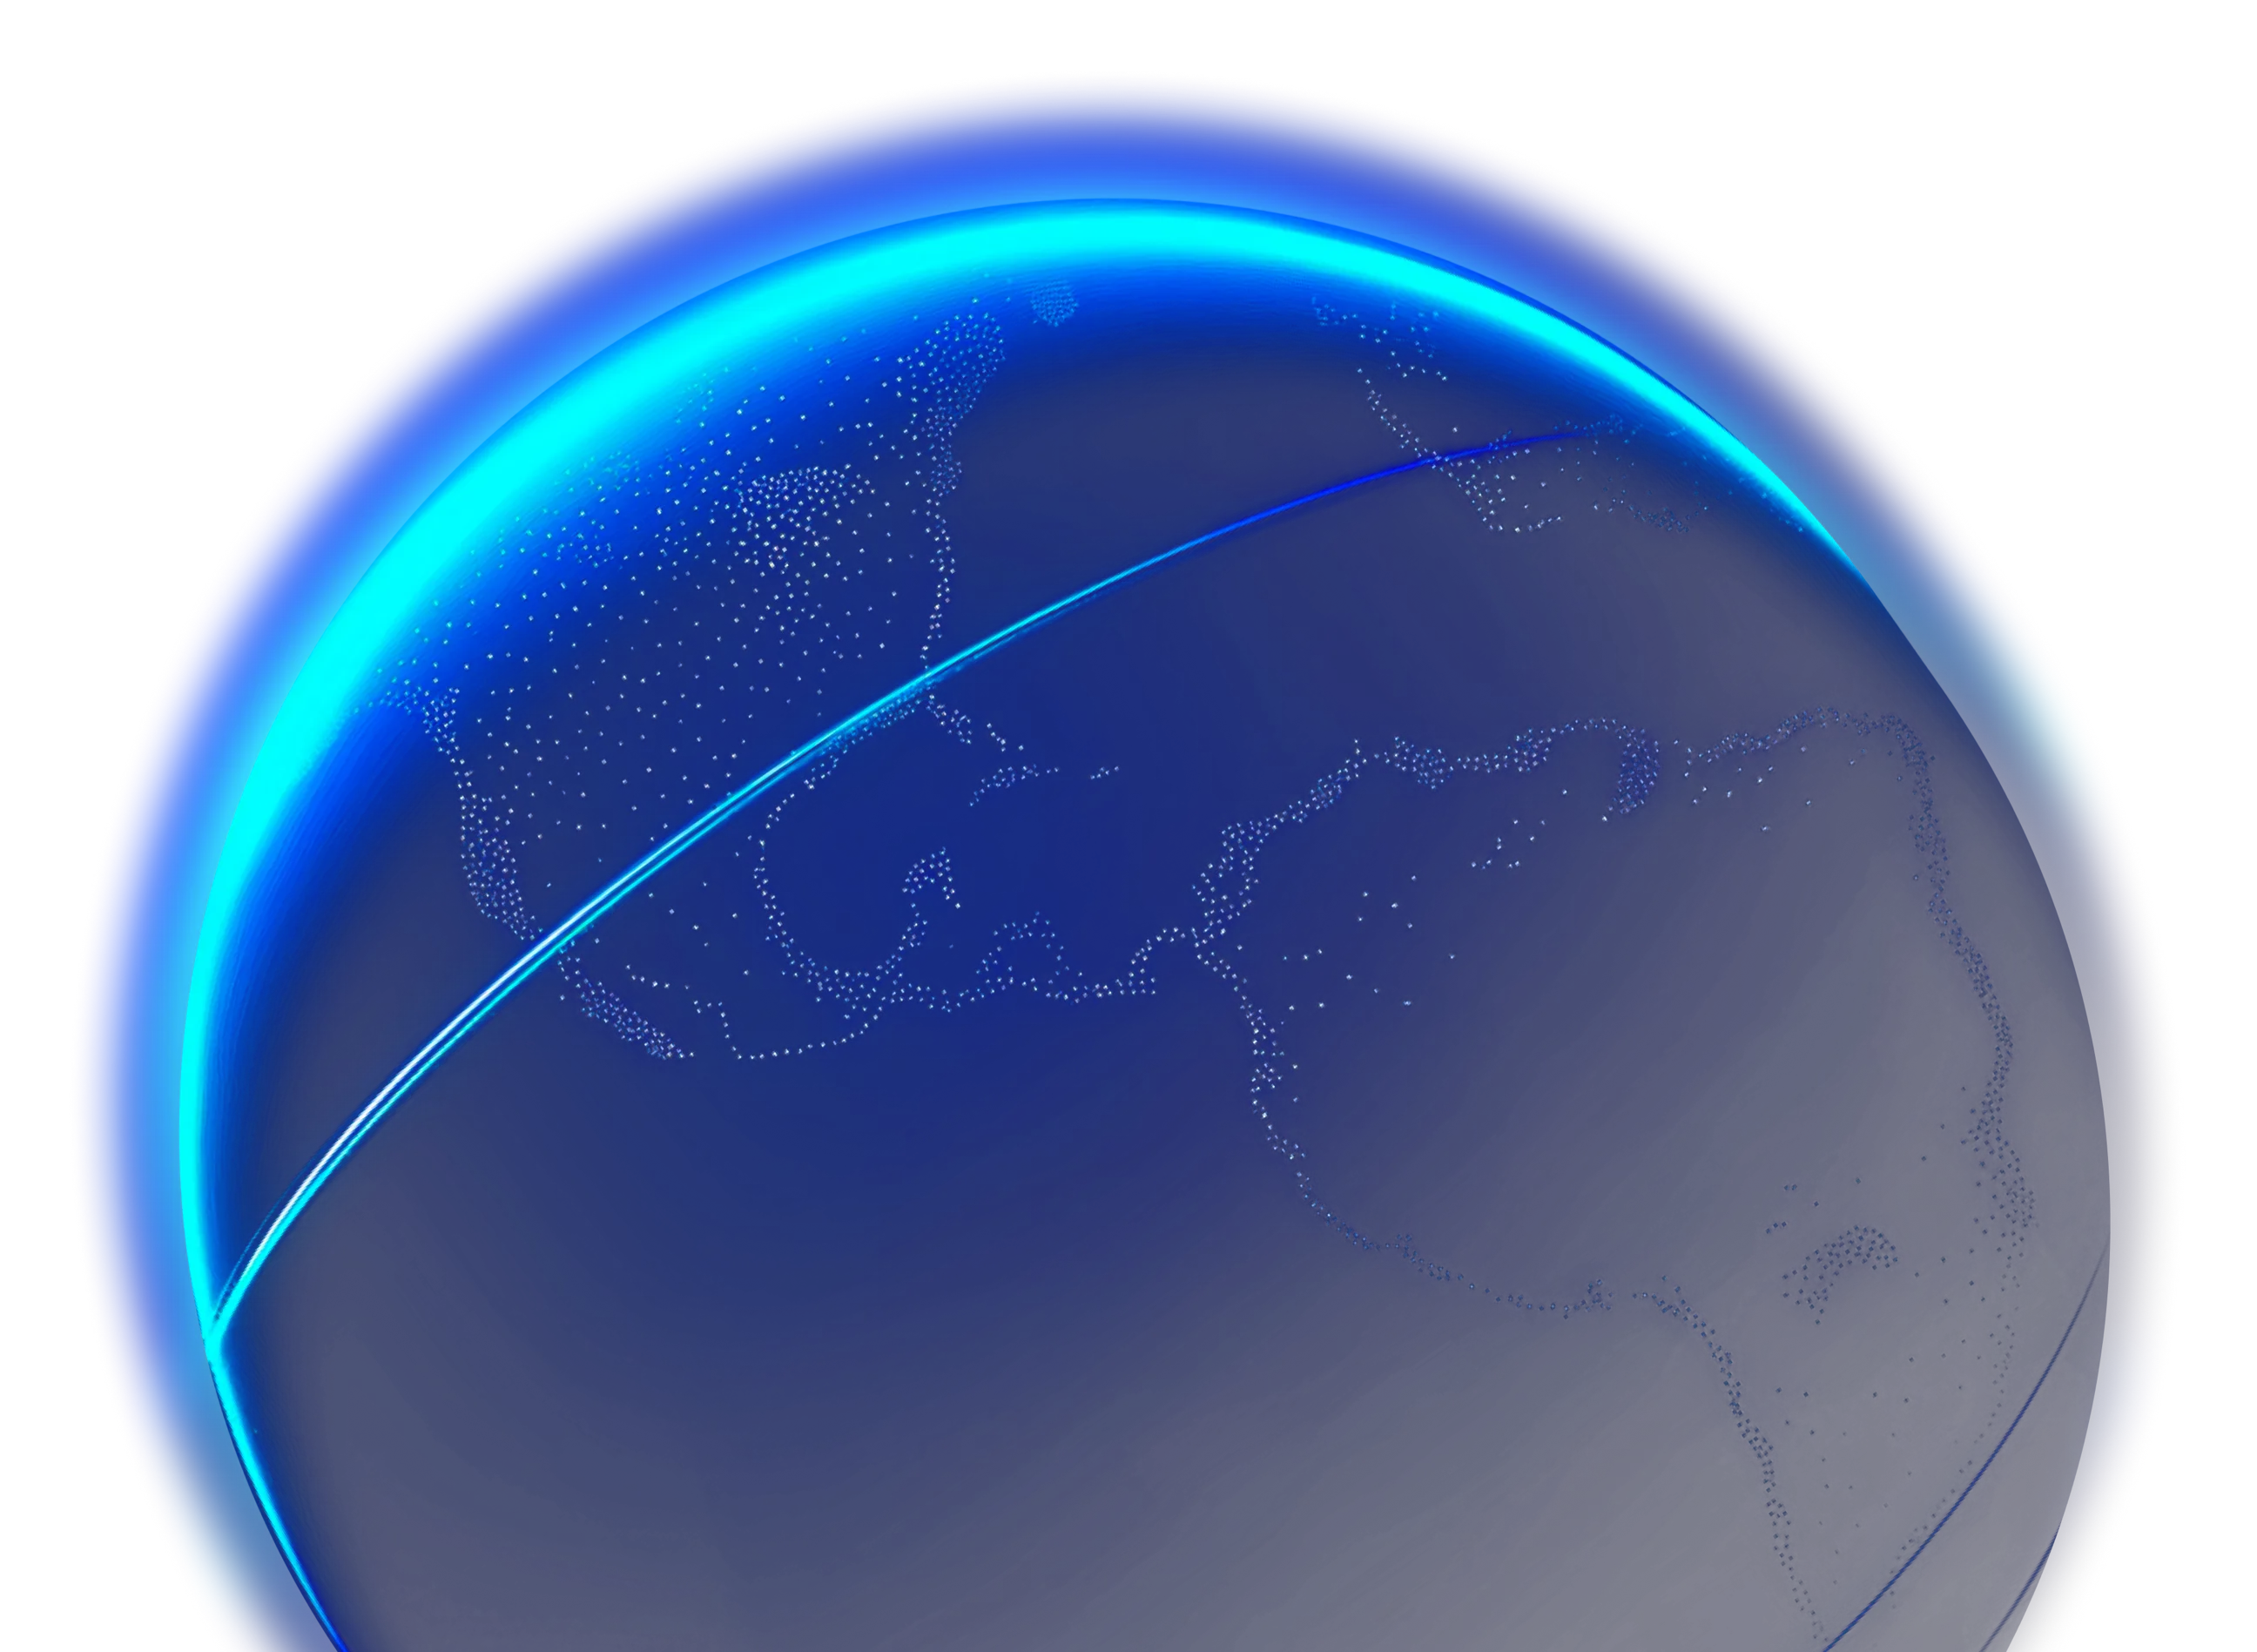
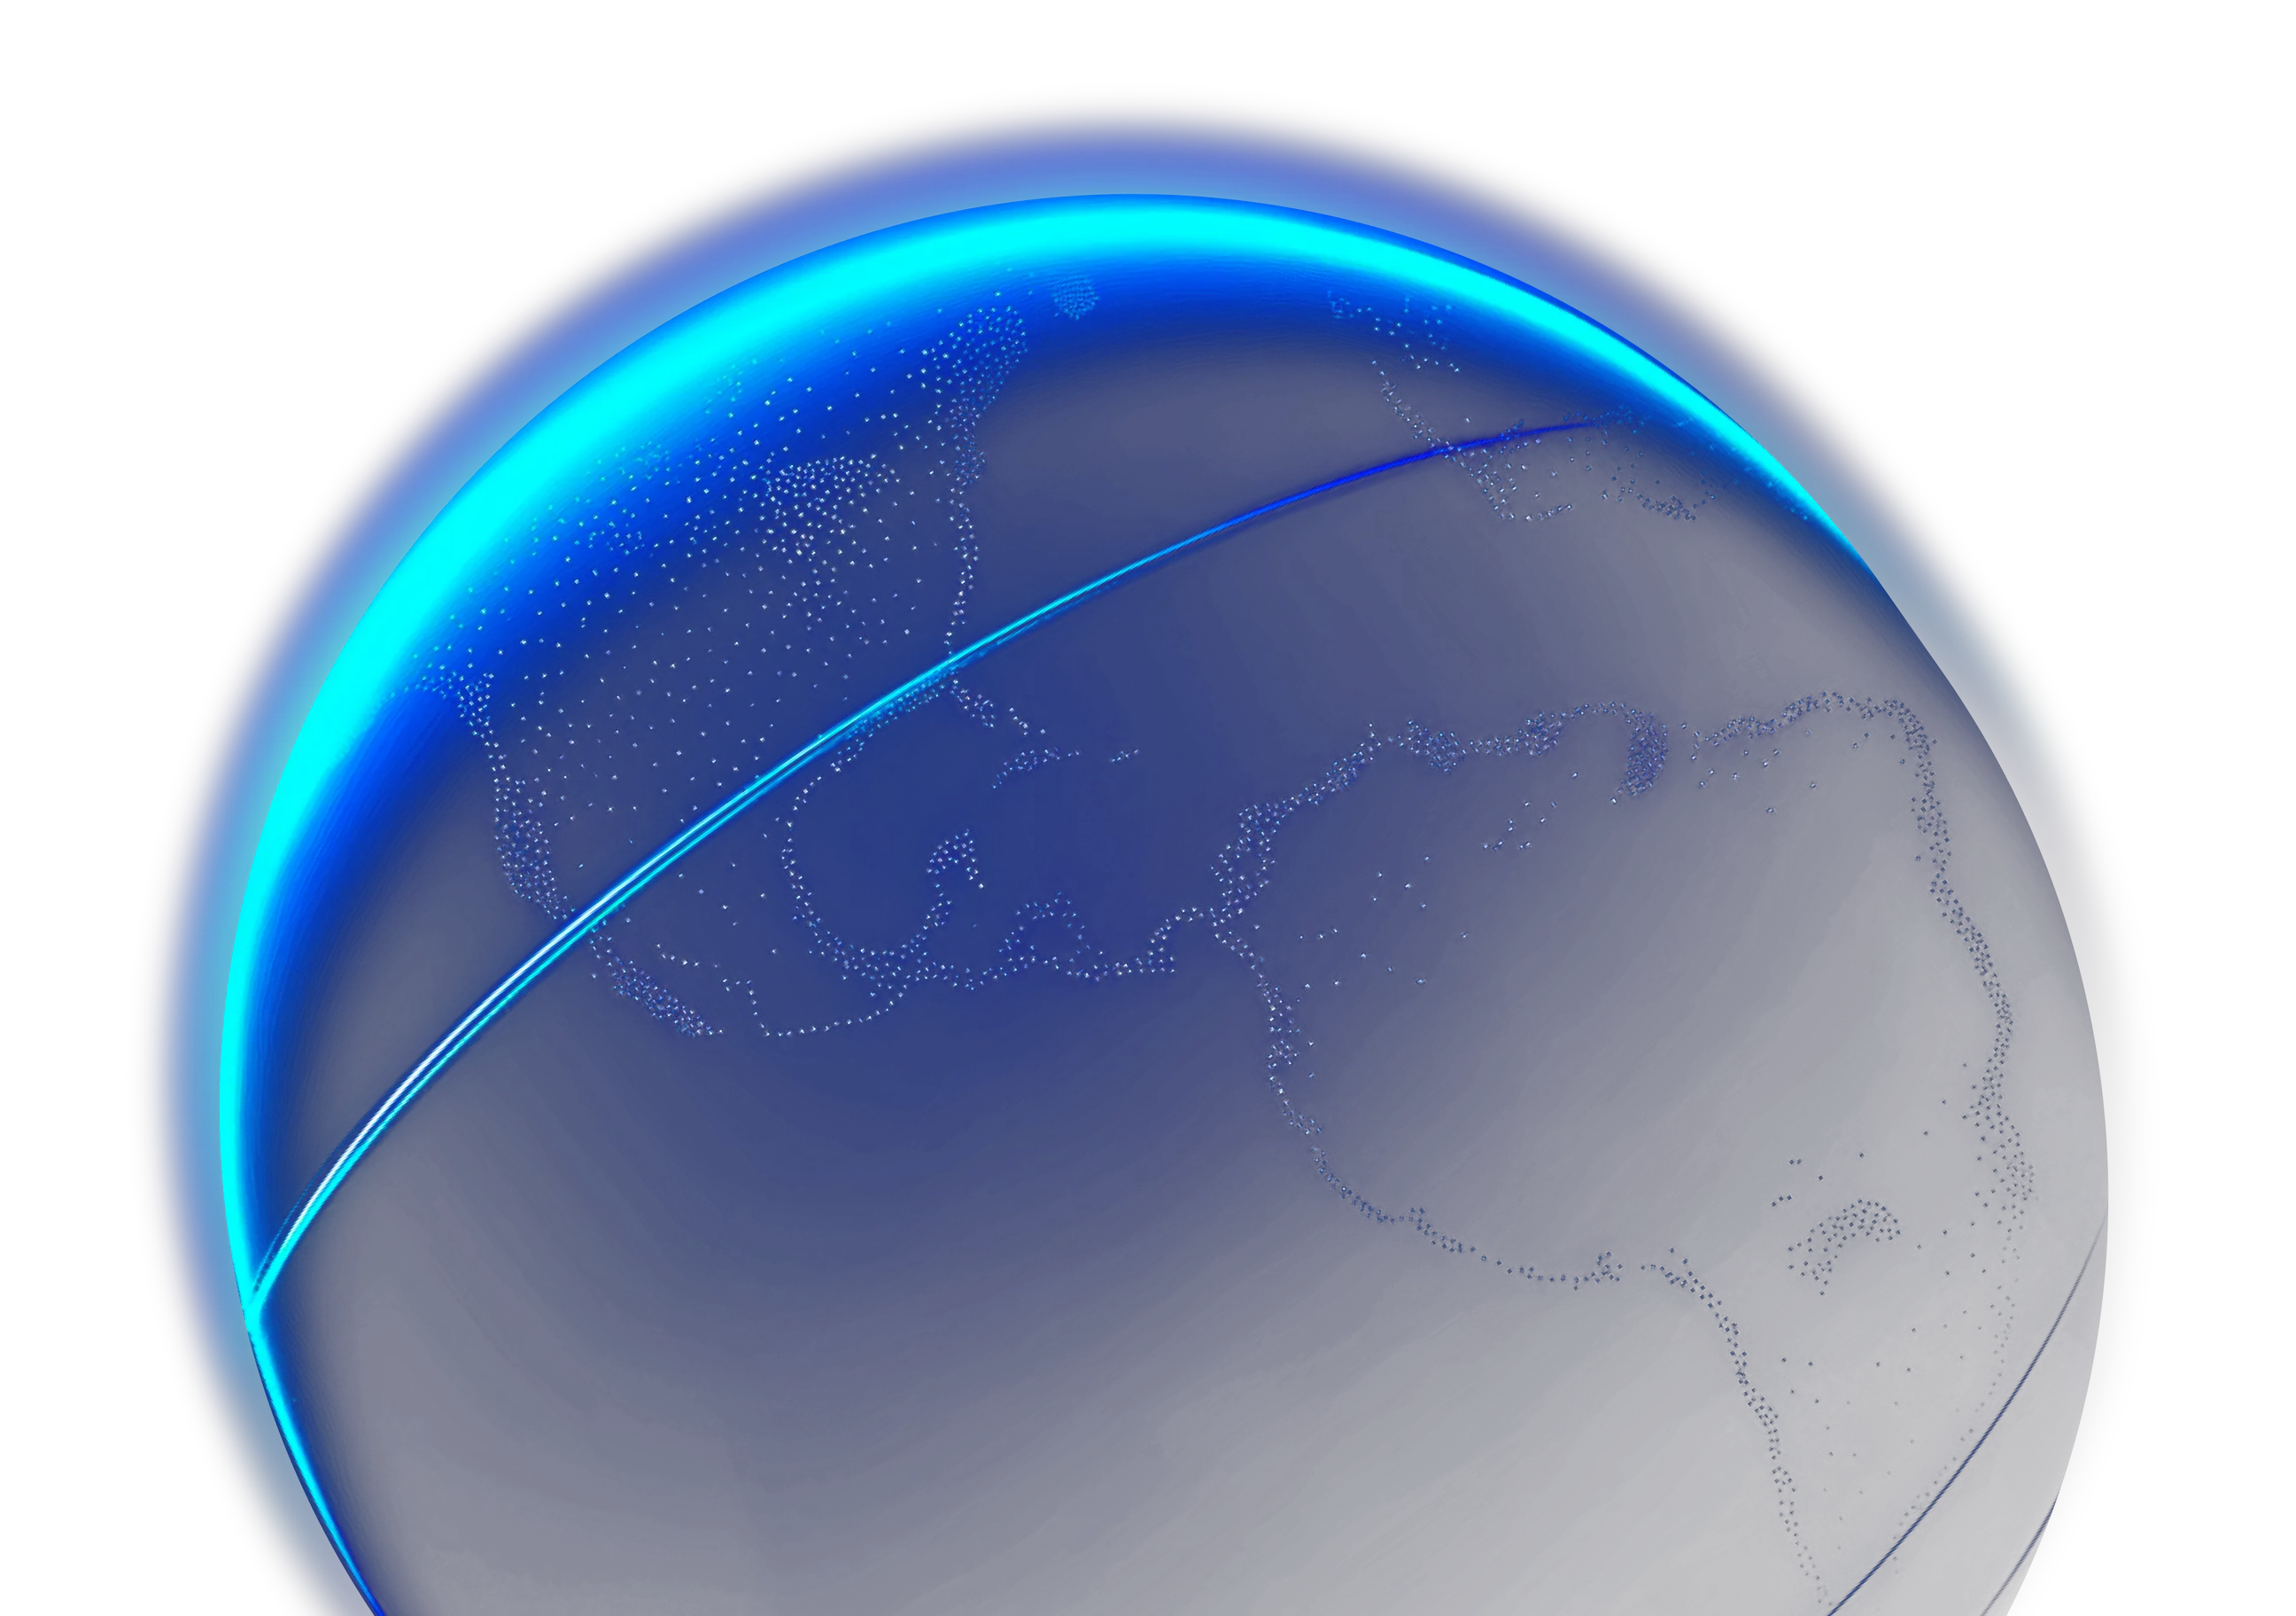
Refit hero planet image to original 2592x1824 dimensions

diff --git a/components/Hero/Hero.tsx b/components/Hero/Hero.tsx
@@ -14,7 +14,7 @@ export function Hero() {
           src="/images/hero-orbit.avif"
           alt=""
           width={2592}
-          height={1897}
+          height={1824}
           priority
           fetchPriority="high"
           quality={62}